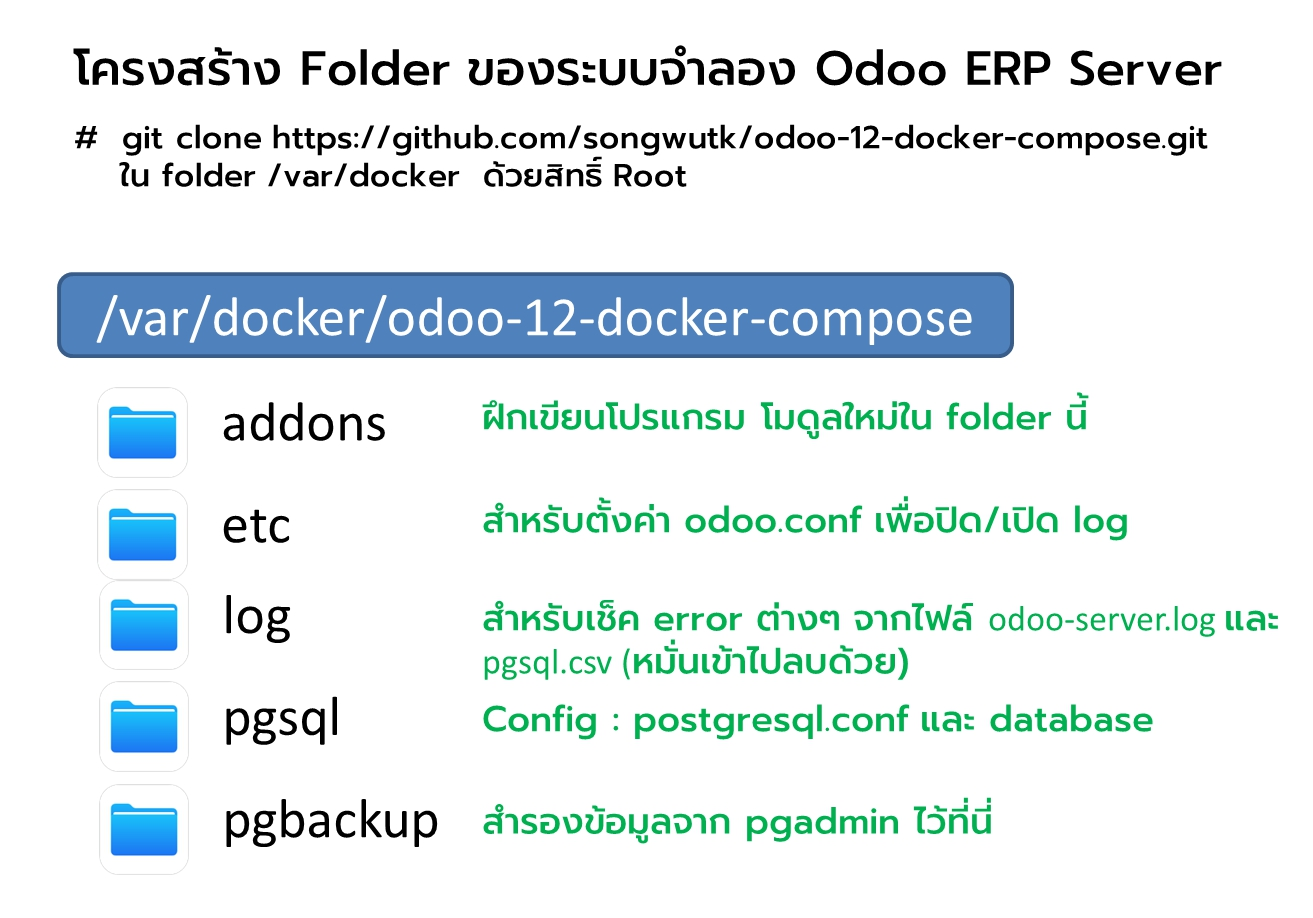
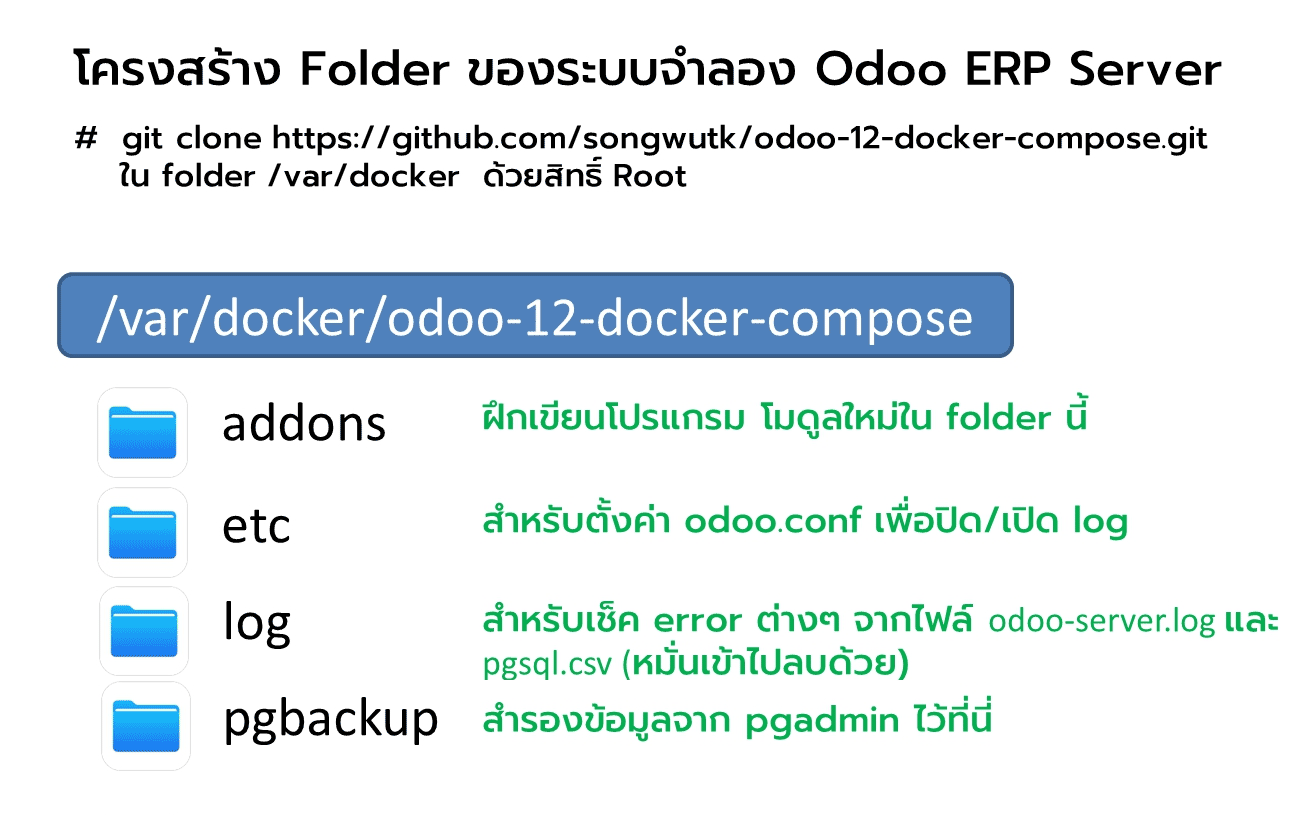
toggle on off log script

Changed region(s): [[0.0312, 0.2757, 0.8743, 0.9498], [0.0312, 0.0306, 0.9368, 0.2451], [0.3435, 0.6127, 0.968, 0.8272]]

diff --git a/README.md b/README.md
@@ -109,7 +109,14 @@ docker exec -t --user root  odoo  ln -s /usr/share/zoneinfo/Asia/Bangkok /etc/lo
 
 # การติดตามการทำงานของ Odoo
 
-* Log file is printed @ **etc/odoo-server.log**
+เราสามารถเปิดการใช้งาน log เพื่อเช็คการทำงานของ sql และ odoo ได้ดังนี้
+
+
+```
+cd pgctrl 
+bash turn_on_log.sh
+
+```
 
 เพื่อความง่ายในการแยกแยะการทำงานเบื้องหลัง อยากให้ท่านเปิด terminal 2 session เพื่อรันคำสั่งดังนี้
  
